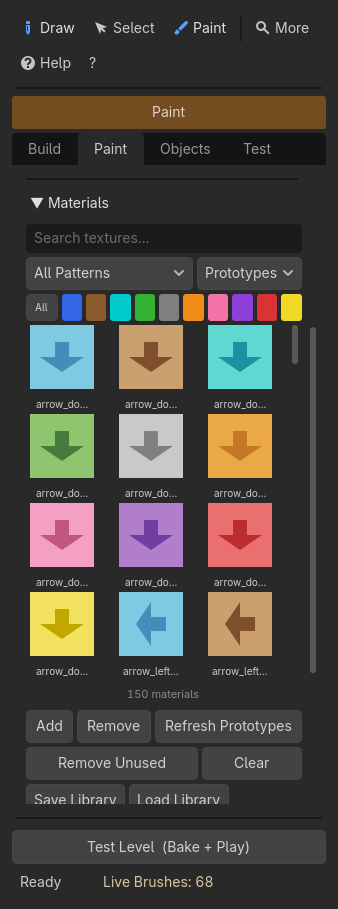
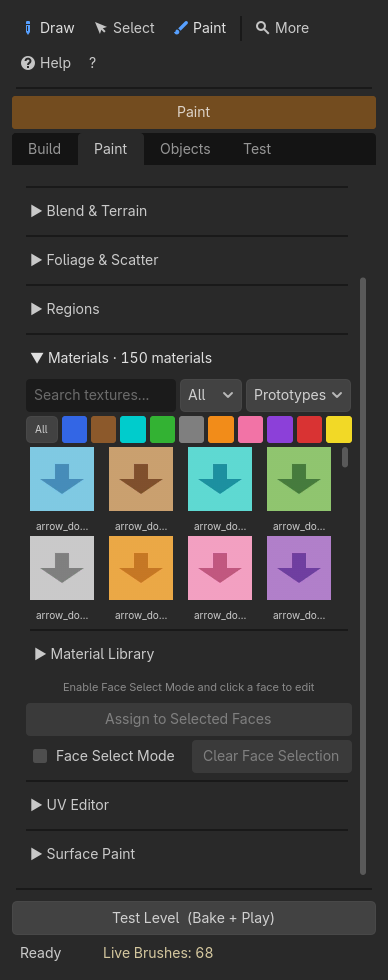
Fit the Paint tab's Materials section in a 1000 px dock (#1380)
* Fit the Paint tab's Materials section in a 1000 px dock

* Retake the Materials shot with the library folded

diff --git a/docs/HammerForge_UserGuide.md b/docs/HammerForge_UserGuide.md
@@ -802,7 +802,7 @@ The primary toolbar keeps the everyday path visible: **Draw**, **Select**, **Pai
 - **Blend & Terrain**: Blend Strength, Blend Slot (B/C/D), and Terrain Slot A-D texture pickers with UV scales.
 - **Foliage & Scatter**: Interactive scatter brush for foliage and object placement. Pick a mesh resource or a scene — a `.glb` or `.gltf` from an artist imports as a scene, and the first mesh inside it is what gets scattered — then set density/radius/height constraints/slope filter/scale variation. Choose Circle or Spline brush shape. Preview generates a MultiMesh preview (Dots/Wireframe/Full). Scatter commits as a permanent `MultiMeshInstance3D`, in one undo step, owned by the scene so a save keeps it. Clear removes the preview. A stroke asking for more than 50,000 instances is refused with the count, so wind the radius or the density down rather than waiting for it. Spline mode uses selected nodes as path control points with a configurable width band.
 - **Regions**: Region Streaming enable, Region Size, Stream Radius, Show Region Grid, memory stats.
-- **Materials**: Visual thumbnail browser (`HFMaterialBrowser`) with search, pattern/color filters, and Prototypes/Palette/Favorites view toggle. Add/Remove/Refresh Prototypes/Remove Unused/Clear buttons. Face Select Mode toggle. Assign to Selected Faces. Right-click thumbnails for context menu (Apply to Faces, Apply to Whole Brush, Toggle Favorite, Copy Name). Favorites are kept in `user://hammerforge_prefs.json` by resource path, so they survive a dock rebuild and an editor restart; a material built in the session and not saved to disk has no path and cannot be starred, and the status line says so. Hover a thumbnail to preview on selected faces. Press **T** for Texture Picker (eyedropper). The **Refresh Prototypes** button batch-loads 150 built-in SVG textures (15 patterns x 10 colors) for quick greyboxing.
+- **Materials**: Visual thumbnail browser (`HFMaterialBrowser`) with search, pattern/color filters, a Prototypes/Palette/Favorites view toggle, and the count the grid shows in the section header. Add/Remove/Refresh Prototypes/Remove Unused/Clear buttons under **Material Library**, closed by default. Face Select Mode toggle. Assign to Selected Faces. Right-click thumbnails for context menu (Apply to Faces, Apply to Whole Brush, Toggle Favorite, Copy Name). Favorites are kept in `user://hammerforge_prefs.json` by resource path, so they survive a dock rebuild and an editor restart; a material built in the session and not saved to disk has no path and cannot be starred, and the status line says so. Hover a thumbnail to preview on selected faces. Press **T** for Texture Picker (eyedropper). The **Refresh Prototypes** button batch-loads 150 built-in SVG textures (15 patterns x 10 colors) for quick greyboxing.
 - **UV Editor**: Per-face UV editing with drag handles, Reset Projected UVs, and Justify grid (Fit, Center, Left, Right, Top, Bottom in 3×2 layout). Justify moves a layout dragged out by hand rather than resetting it, so the UV editor and the Justify buttons compose.
 - **Surface Paint**: Paint Target (Floor/Surface), layers, texture picker, radius/strength.
 
@@ -1261,13 +1261,13 @@ To add custom entity types:
 A `LevelRoot` can read from somewhere else instead through its `entity_definitions_path` export. Both pickers follow it.
 
 ## Material Library
-The material palette can be saved and loaded as a JSON library file. **Save Library** and **Load Library** sit in the Paint tab -> Materials section, beside Refresh Prototypes:
+The material palette can be saved and loaded as a JSON library file. **Save Library** and **Load Library** sit in the Paint tab -> Materials -> Material Library, beside Refresh Prototypes:
 - **Save Library**: records the resource path of each palette material. A material made in the editor session has no resource path and cannot be recorded, so its slot is written empty and the status line says how many were left that way. Save the material to disk first if it has to survive the trip.
 - **Load Library**: restores the palette from the saved paths. A path the file names but the project cannot find keeps its slot as an empty one rather than shifting the rest, because `FaceData.material_idx` indexes that array; the status line says how many are missing. The load is a single undo step, so Ctrl+Z brings the old palette back.
 - **Unused materials**: not tracked. Material assignment is per face, through `FaceData.material_idx`, so "is this palette slot used" is a question about face slots rather than about a resource path.
 
 ## Prototype Textures
-HammerForge includes 150 built-in SVG prototype textures organized as 15 patterns in 10 color variations. Click **Refresh Prototypes** in the Paint tab → Materials section to add them all to the palette. **Remove Unused** drops every slot no face is wearing and **Clear** empties the palette outright, both in one pass over the level rather than one pass per slot; a face whose material goes is unset and keeps its geometry. The **Material Browser** displays them as a visual thumbnail grid with search and pattern/color filters — no need to memorize names. Patterns include solid, brick, checker, cross, diamond, dots, hex, stripes (diagonal/horizontal), triangles, zigzag, and directional arrows (up/down/left/right).
+HammerForge includes 150 built-in SVG prototype textures organized as 15 patterns in 10 color variations. Click **Refresh Prototypes** in the Paint tab → Materials → Material Library to add them all to the palette. **Remove Unused** drops every slot no face is wearing and **Clear** empties the palette outright, both in one pass over the level rather than one pass per slot; a face whose material goes is unset and keeps its geometry. The **Material Browser** displays them as a visual thumbnail grid with search and pattern/color filters — no need to memorize names. Patterns include solid, brick, checker, cross, diamond, dots, hex, stripes (diagonal/horizontal), triangles, zigzag, and directional arrows (up/down/left/right).
 
 For GDScript API usage, see `docs/HammerForge_Prototype_Textures.md`.
 
@@ -1809,7 +1809,7 @@ Terrain slots:
 
 ## Face Materials and UVs
 1. Open the **Paint** tab → **Materials** section.
-2. Click **Refresh Prototypes** to load all 150 built-in textures, or click `Add` to load a custom material resource (example: `materials/test_mat.tres`).
+2. Open **Material Library** and click **Refresh Prototypes** to load all 150 built-in textures, or click `Add` to load a custom material resource (example: `materials/test_mat.tres`).
 3. Browse the visual thumbnail grid — use search, pattern dropdown, or color swatches to filter.
 4. Click a thumbnail to select a material. Hover to preview it on selected faces.
 5. Enable `Face Select Mode`.

diff --git a/docs/HammerForge_Texture_Materials.md b/docs/HammerForge_Texture_Materials.md
@@ -38,7 +38,7 @@ Materials are Godot resources stored as `.tres` or `.material` files.
 ### Using Prototype Textures (Quick Start)
 For rapid prototyping without creating custom materials:
 1. Open the Paint tab in the dock.
-2. Click **Refresh Prototypes** in the Materials section.
+2. Click **Refresh Prototypes** under **Material Library** in the Materials section.
 3. 150 built-in SVG textures are added to the palette (15 patterns x 10 colors).
 4. Browse textures visually in the **Material Browser** thumbnail grid — filter by pattern, color, or search text.
 5. Click a thumbnail to select it, then click **Assign to Selected Faces** (or right-click → "Apply to Selected Faces").
@@ -51,7 +51,7 @@ For full details, see [Prototype Textures](HammerForge_Prototype_Textures.md).
 2. Choose `New Resource` -> `StandardMaterial3D` (or `ShaderMaterial`).
 3. Save it as a `.tres` file (example: `materials/test_mat.tres`).
 
-You can then click `Add` in the Paint tab → Materials section and pick that resource.
+You can then click `Add` in the Paint tab → Materials → Material Library and pick that resource.
 
 ## Materials Palette & Visual Browser
 The Paint tab → Materials section hosts a **visual material browser** (`HFMaterialBrowser`) that replaces the old text-only list.
@@ -67,10 +67,10 @@ The browser displays a scrollable thumbnail grid of 64px cells, as many to a row
 - **View toggle**: Prototypes (only built-in), Palette (all loaded), Favorites (starred only).
 - **Hover preview**: hovering a thumbnail temporarily applies that material to selected faces in the viewport.
 - **Right-click context menu**: Apply to Selected Faces, Apply to Whole Brush, Toggle Favorite, Copy Name.
-- **Status bar**: "X of Y materials" with filter feedback.
+- **Count**: "X of Y materials" in the Materials header, with filter feedback.
 
 ### Workflow
-1. Click `Add` to load a material resource, or click `Refresh Prototypes` to load all 150 built-in textures.
+1. Open **Material Library** and click `Add` to load a material resource, or `Refresh Prototypes` to load all 150 built-in textures.
 2. Browse the thumbnail grid — use filters and search to narrow down.
 3. Click a thumbnail to select it as the current material.
 4. Enable `Face Select Mode` and click faces in the viewport (Select tool).

diff --git a/docs/HammerForge_Data_Portability.md b/docs/HammerForge_Data_Portability.md
@@ -168,7 +168,7 @@ After import, run **Check Only** (Test tab) to detect any remaining non-planar f
 
 ## Prototype Textures
 - HammerForge ships with 150 built-in SVG prototype textures at `addons/hammerforge/textures/prototypes/`.
-- Click **Refresh Prototypes** in Paint tab → Materials section to batch-load all textures into the palette.
+- Click **Refresh Prototypes** in Paint tab → Materials → Material Library to batch-load all textures into the palette.
 - Once loaded, prototype materials are serialized in `.hflevel` saves, as resource paths. The same rule as the material library applies: a material with no resource path, which is any made in the editor session rather than loaded from disk, cannot be recorded. Saving one now warns and records its class and name, and the slot loads empty.
 - Prototype textures are included in the plugin directory and travel with the project automatically.
 

diff --git a/docs/HammerForge_Prototype_Textures.md b/docs/HammerForge_Prototype_Textures.md
@@ -73,7 +73,7 @@ Godot 4.7 automatically imports SVGs as `CompressedTexture2D` resources.
 
 
 1. Open the **Paint** tab in the HammerForge dock.
-2. In the **Materials** section, click **Refresh Prototypes**. **Remove Unused** beside it takes back the slots the level never used.
+2. In the **Materials** section, open **Material Library** and click **Refresh Prototypes**. **Remove Unused** beside it takes back the slots the level never used.
 3. All 150 prototype materials are added to the palette and displayed as a visual thumbnail grid in the **Material Browser**.
 4. Use the **pattern dropdown**, **color swatches**, or **search bar** to filter the grid.
 5. Click a thumbnail to select a material. Enable **Face Select Mode** and click faces in the viewport.

diff --git a/docs/HammerForge_Editor_Smoke_Checklist.md b/docs/HammerForge_Editor_Smoke_Checklist.md
@@ -543,7 +543,7 @@ It writes one PNG per tab under `user://console_preview/`.
 
 ### 11. Material Browser + Texture Picker
 - Open the **Paint** tab → **Materials** section.
-- Click **Refresh Prototypes**; confirm the thumbnail grid populates with 150 texture previews.
+- Open **Material Library** and click **Refresh Prototypes**; confirm the thumbnail grid populates with 150 texture previews.
 - Type "brick" in the search bar; confirm the grid filters to brick-pattern materials only.
 - Click a color swatch (e.g. red); confirm only red materials remain. Click "All" to reset.
 - Select the "Favorites" view toggle; confirm it is empty initially.

diff --git a/changelog.d/paint-tab-fit.changed.md b/changelog.d/paint-tab-fit.changed.md
@@ -1,0 +1,1 @@
+- With only Materials open in a 1000 px dock the Paint tab no longer scrolls: the palette buttons fold under Material Library and the count sits in the header. (issue [#1366](https://github.com/saworbit/hammerforge/issues/1366))
